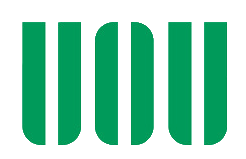
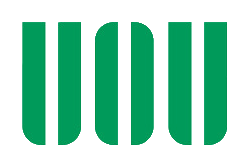
set title height

diff --git a/index.html b/index.html
@@ -42,7 +42,7 @@
     <div style="border:none;border-bottom: 1.5px solid #C0C0C0;">
     <div class="title">
         <span style="float:left">
-            <img src="/image/uou.png" width="60" height="50">
+            <img src="/image/uou.png" width="65" height="50">
         </span>
         <span><font size="4em" style="color:#1C1C1C">
             <b>&ensp;글로벌메디컬마케팅 연계전공</b>
